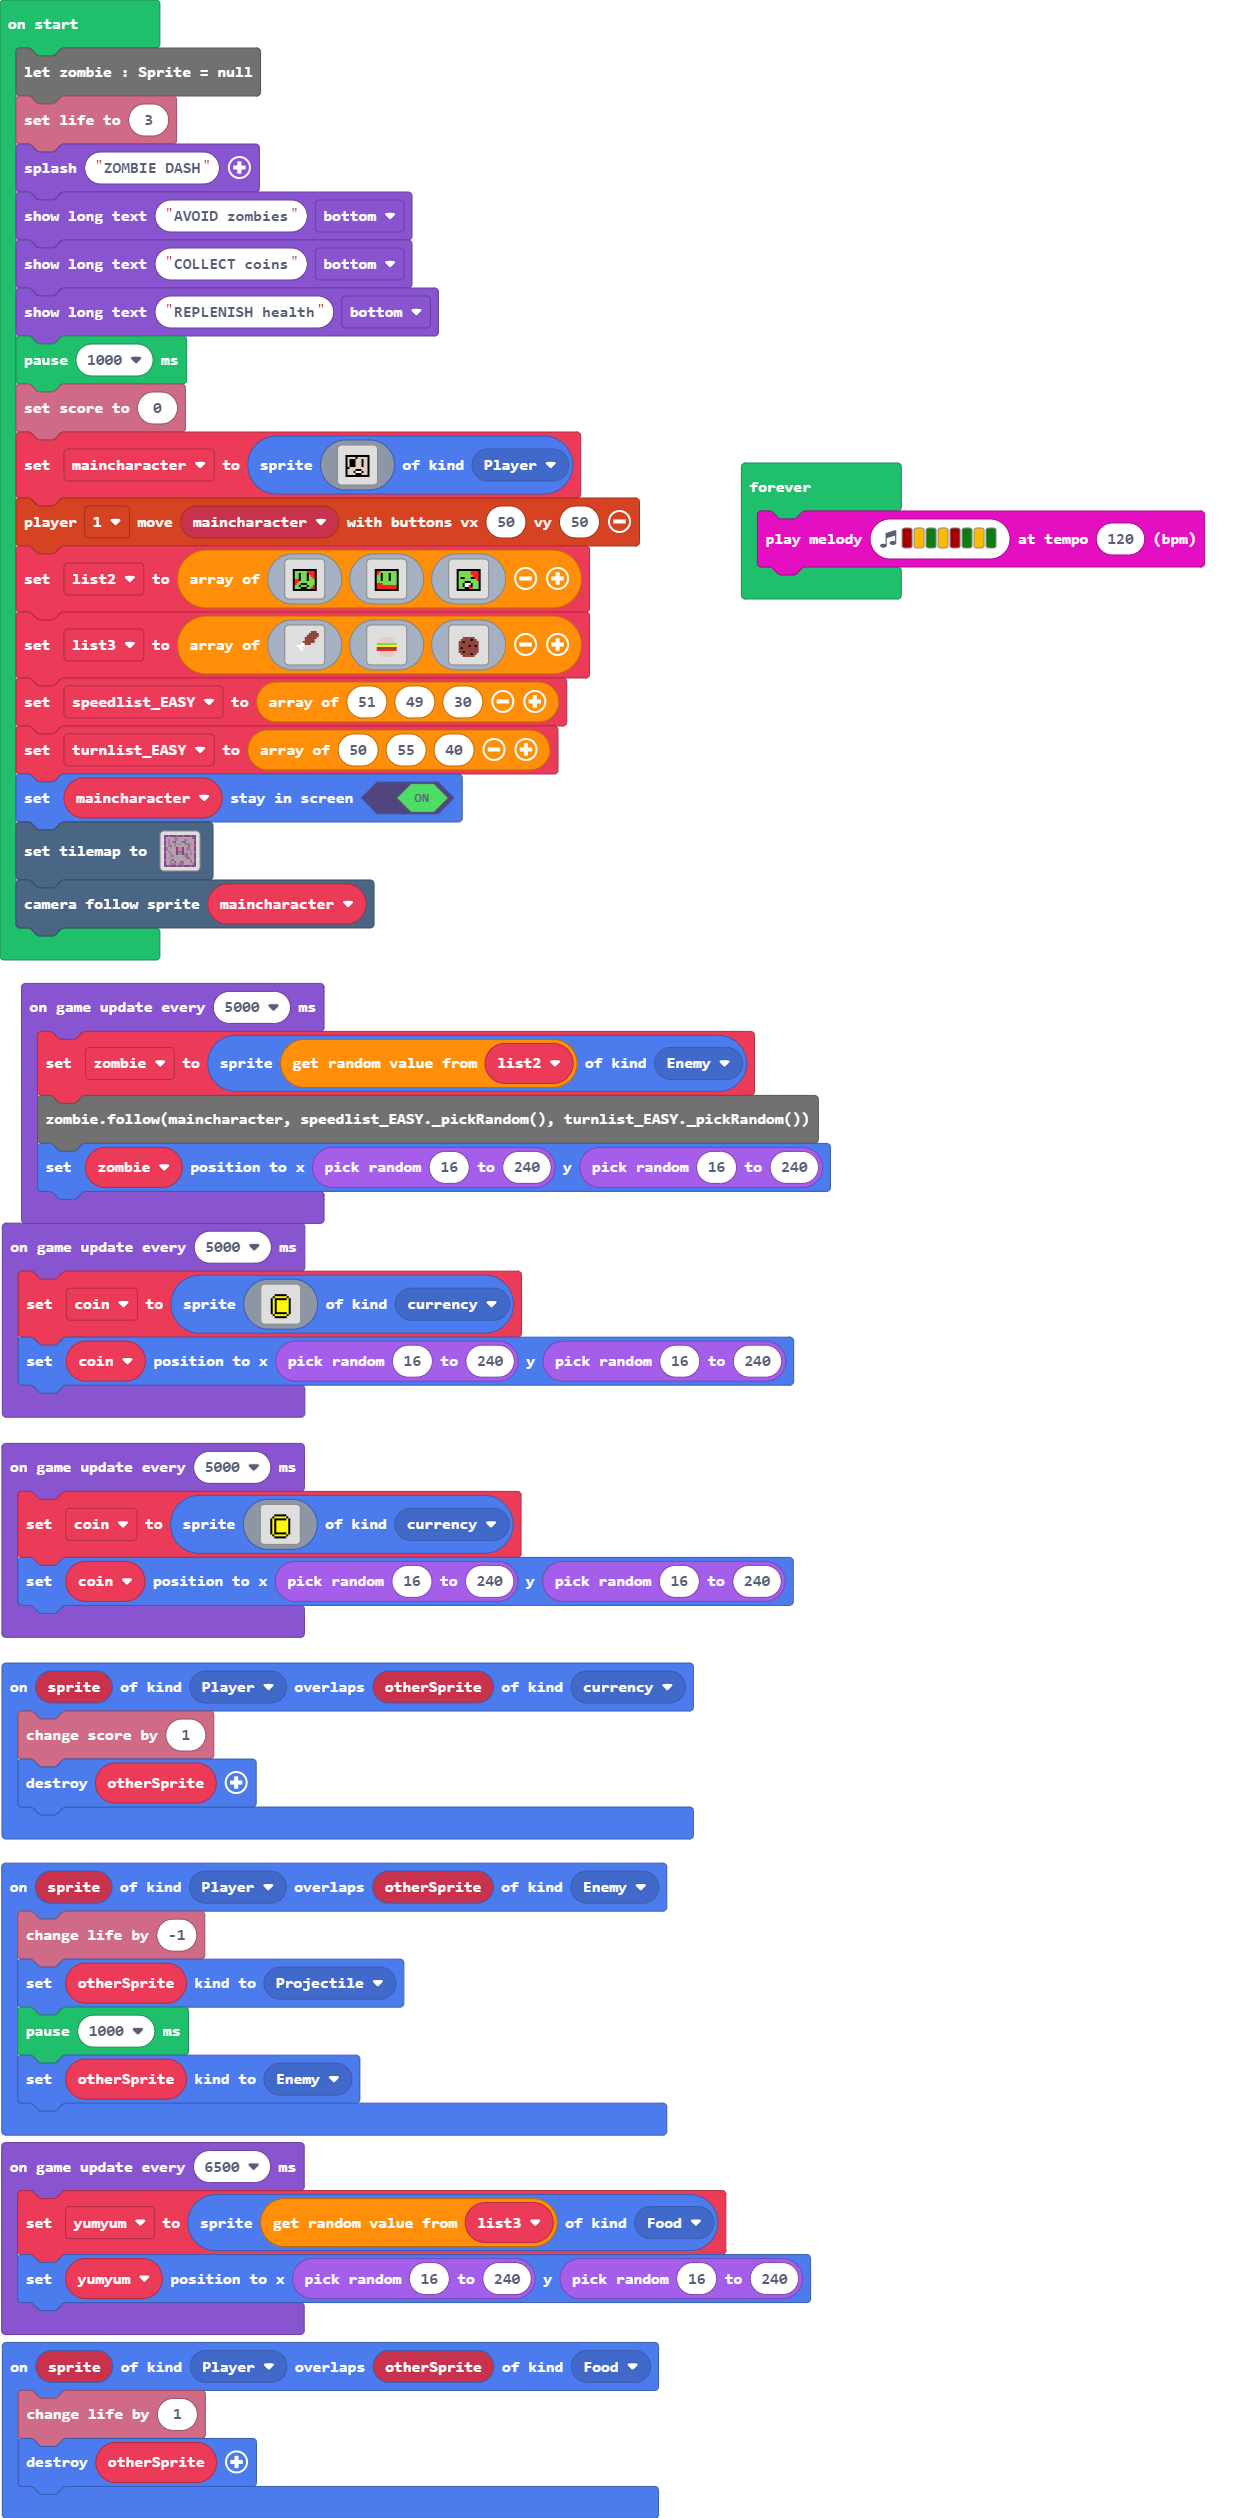
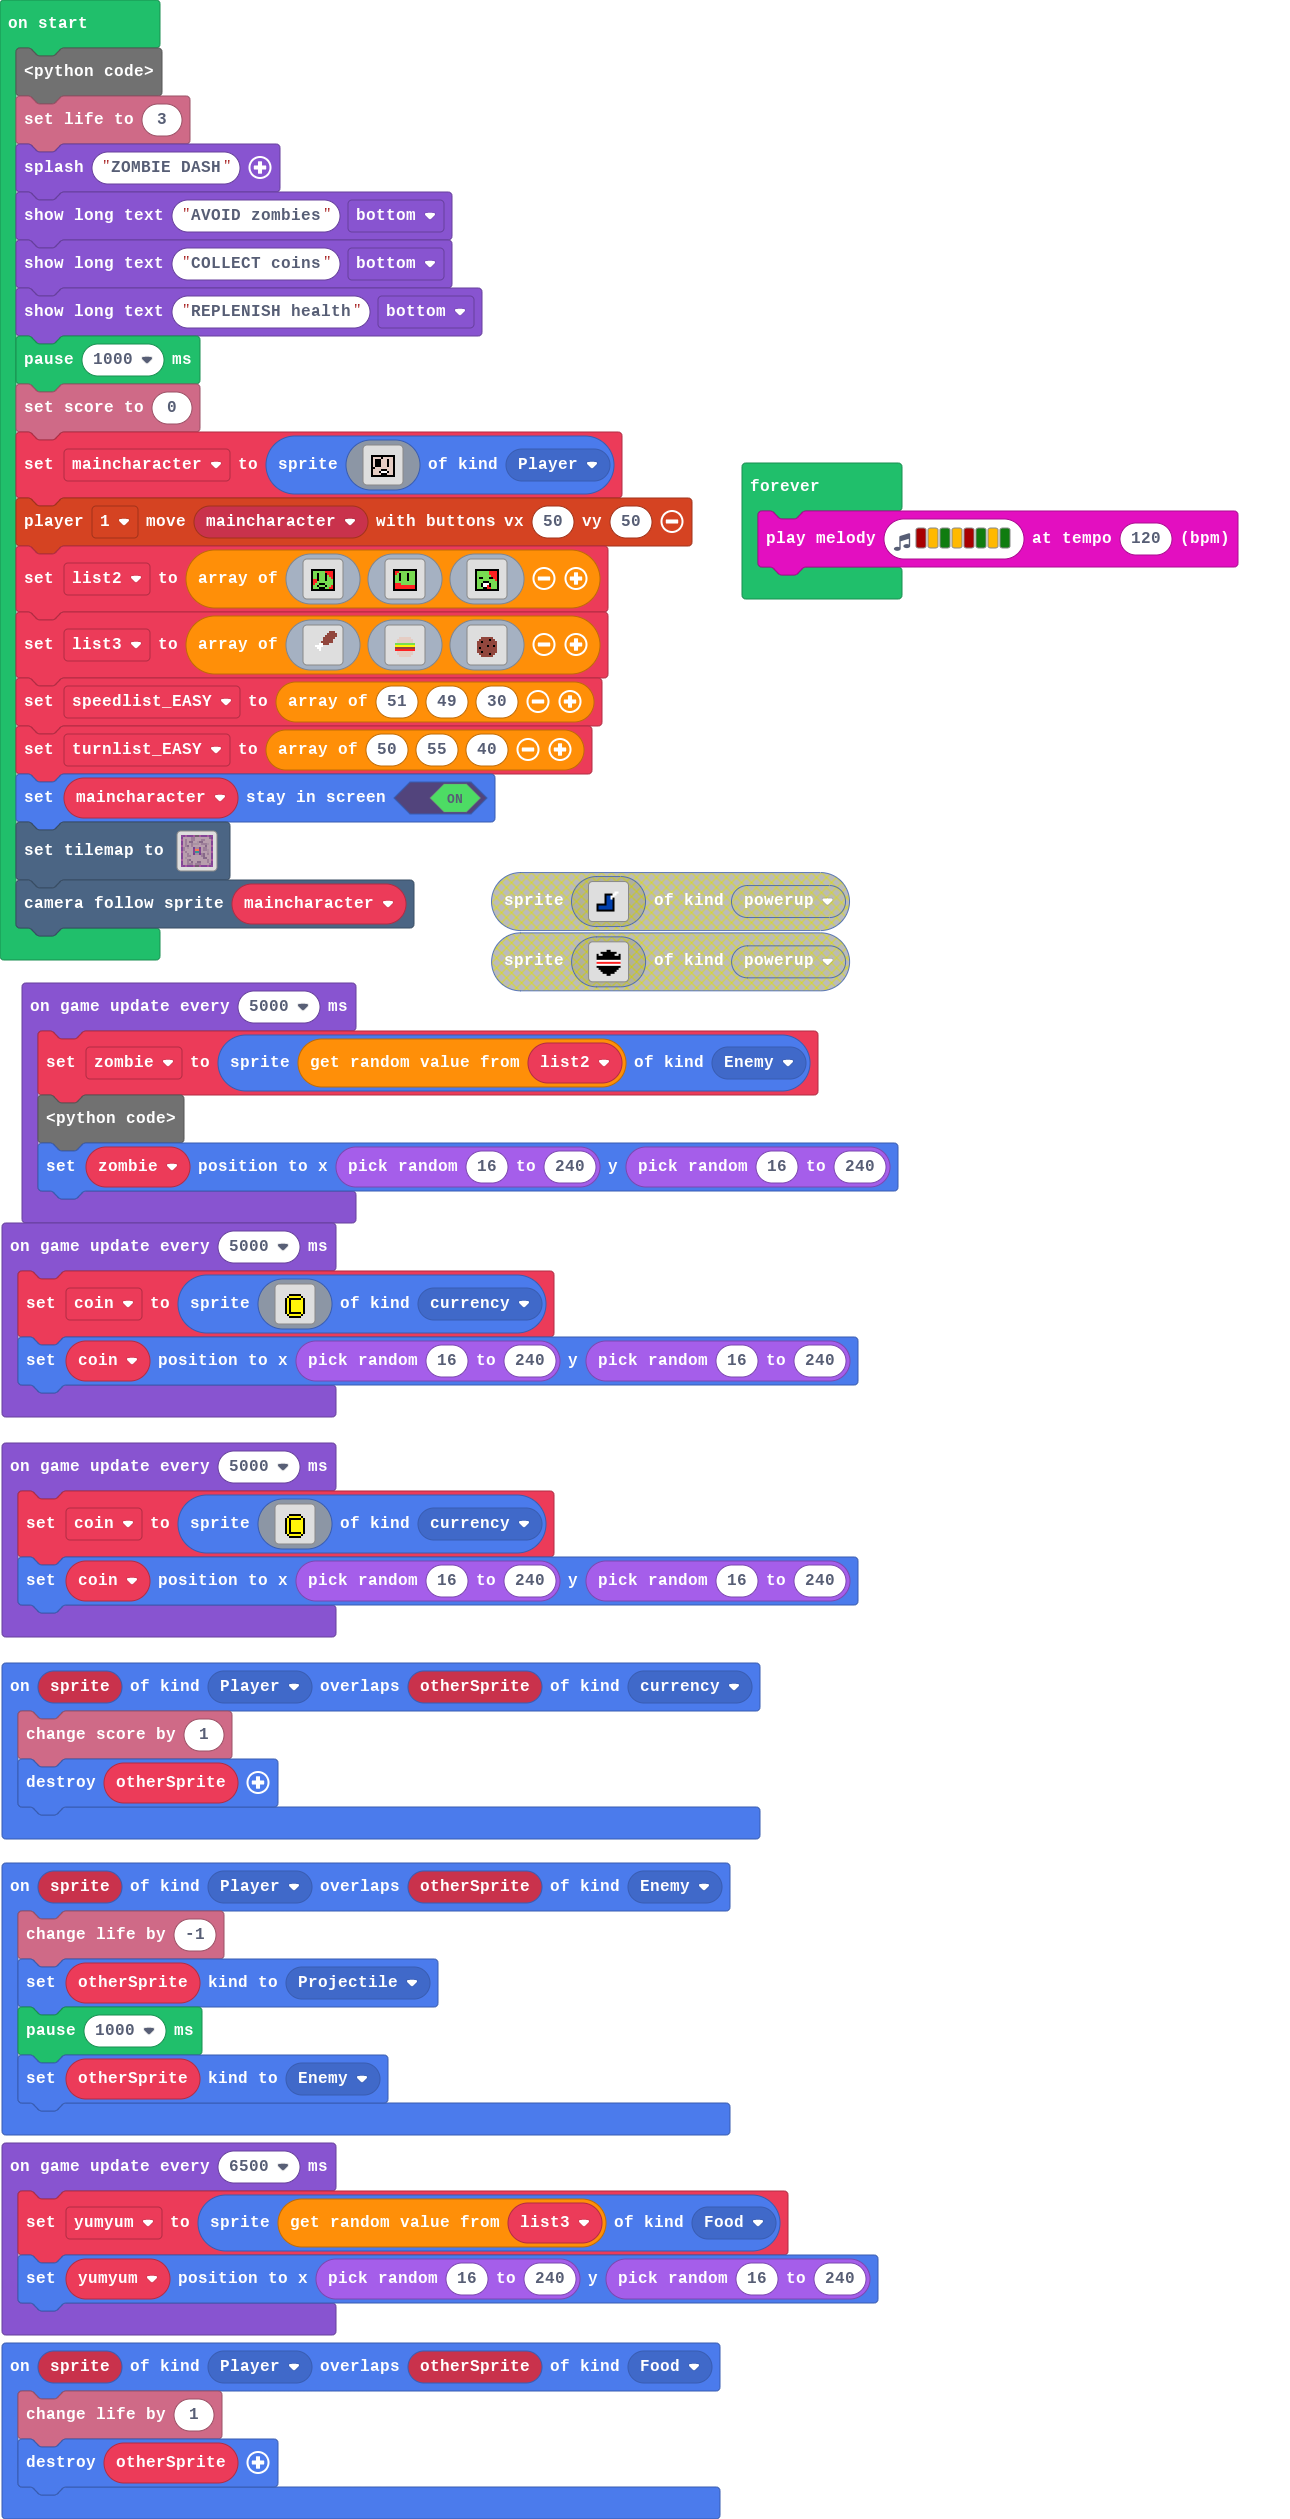
Update main.blocks, main.ts

Changed region(s): [[0.0, 0.0, 0.9618, 1.0], [0.0, 0.0, 0.0621, 0.031]]

diff --git a/main.ts b/main.ts
@@ -1,5 +1,6 @@
 namespace SpriteKind {
     export const currency = SpriteKind.create()
+    export const powerup = SpriteKind.create()
 }
 sprites.onOverlap(SpriteKind.Player, SpriteKind.currency, function (sprite, otherSprite) {
     info.changeScoreBy(1)
